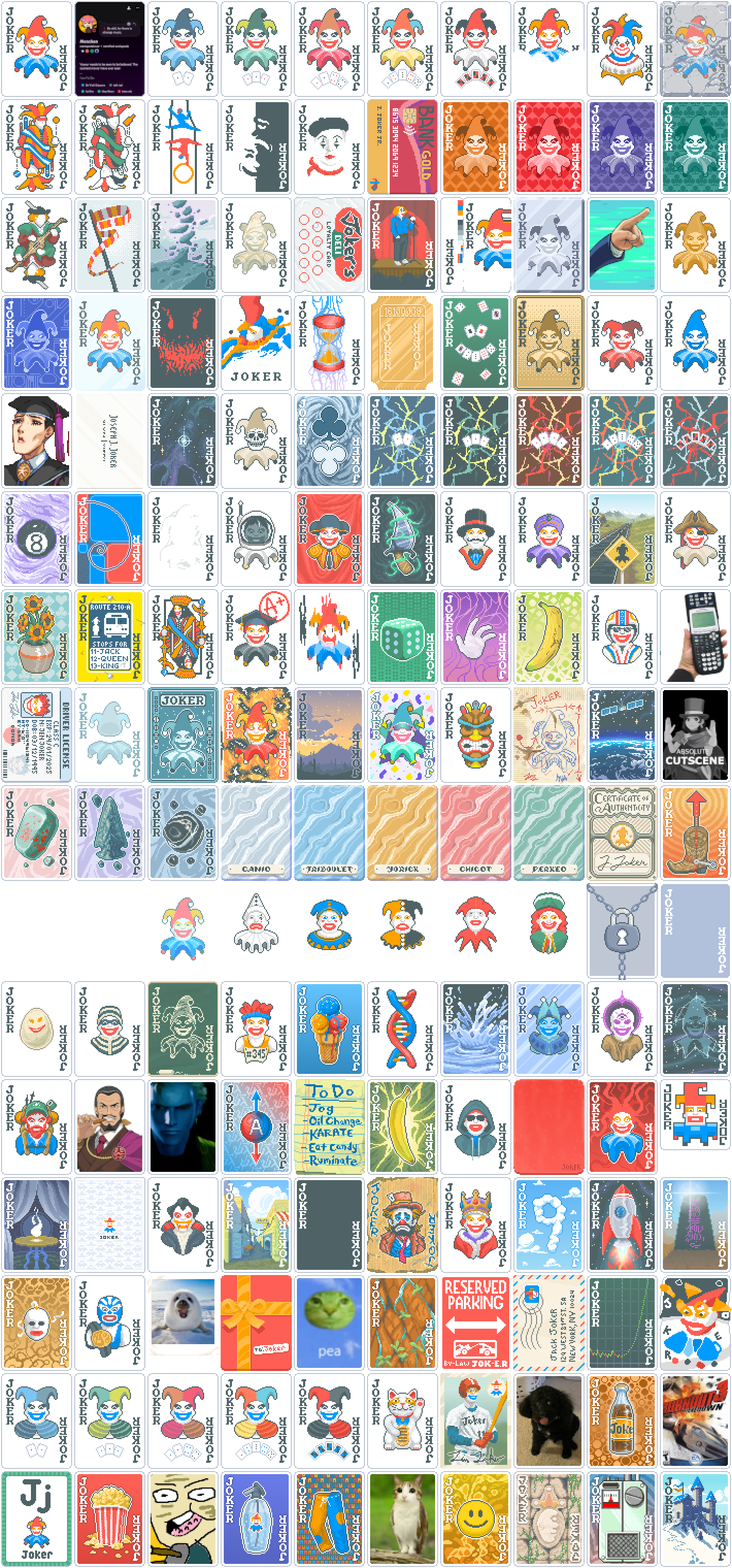
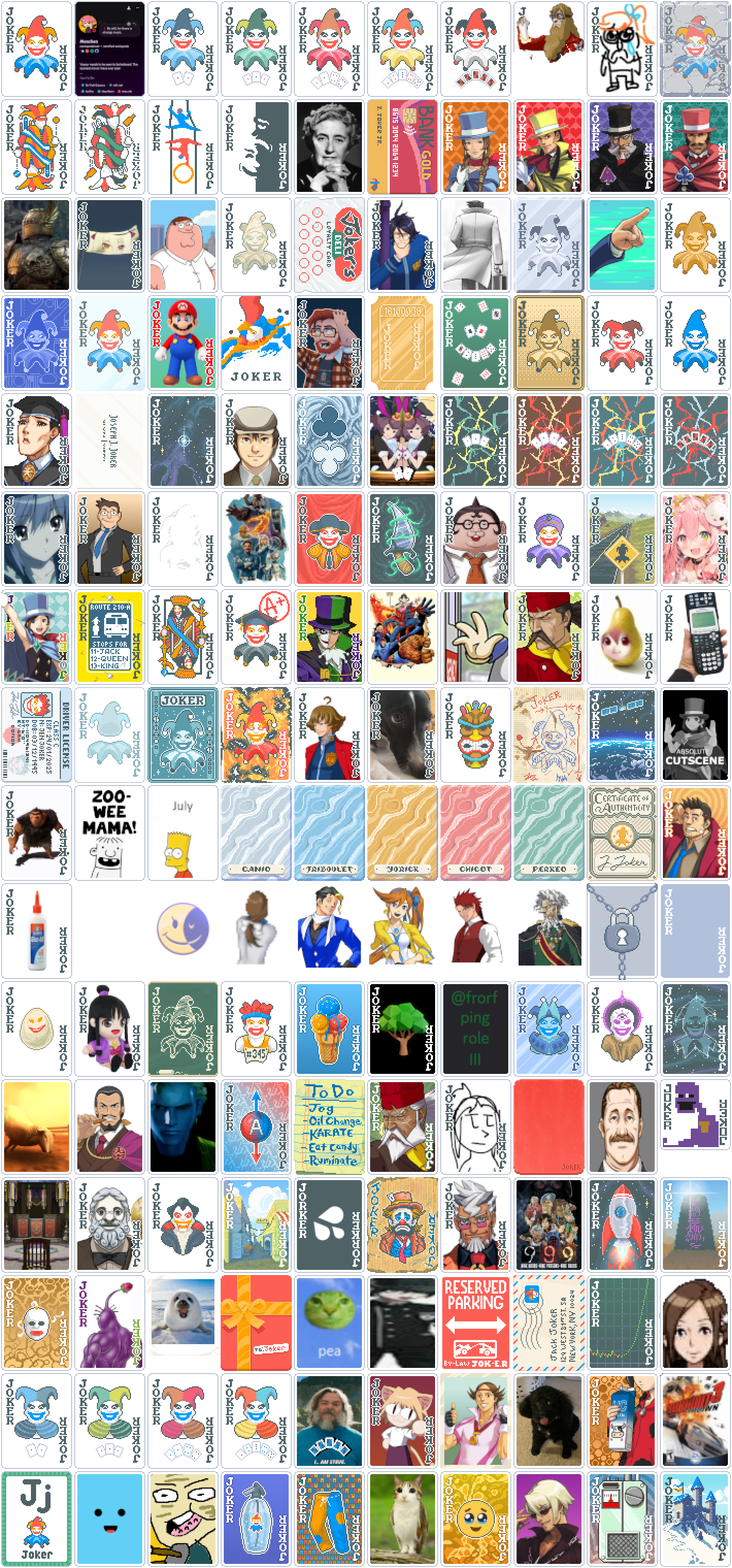
Converted mod to Malverk (thanks betboxer)

diff --git a/README.md b/README.md
@@ -1,17 +1,15 @@
-This WIP mod for Balatro replaces elements of the game with stuff (sometimes only tangentially) related to the Ace Attorney Circlejerk community. Meant to be used alongside with [BlueStorm](https://balatromods.miraheze.org/wiki/BlueStorm).
+This WIP mod for Balatro replaces elements of the game with stuff (sometimes only tangentially) related to the Ace Attorney Circlejerk community.
 
 Download the mod by pressing the green "Code" button, then pressing "Download ZIP".
-
-Thanks to betboxer for converting the mod to Malverk, and everyone in the AACJ Discord server who suggested ideas for cards!
 
 # Changes
 ## Jokers
 
-**Progress: 91/150**
+**Progress: 45/148**
 
 | Original Card | New Card |
 | ------------- | ------------- |
-| Joker | Jimbo (Image Unchanged) |
+| Joker | (Unchanged) |
 | Greedy Joker | Thalassa Gramarye |
 | Lusty Joker | Valant Gramarye |
 | Wrathful Joker | Magnifi Gramarye |
@@ -25,13 +23,13 @@ Thanks to betboxer for converting the mod to Malverk, and everyone in the AACJ D
 | Wily Joker |  |
 | Clever Joker |  |
 | Devious Joker |  |
-| Crafty Joker | Minecraft Steve |
+| Crafty Joker |  |
 | Half Joker | Erasing Evidence |
 | Joker Stencil |  |
-| Four Fingers | Loss |
-| Mime | Agatha Christie |
+| Four Fingers |  |
+| Mime |  |
 | Credit Card |  |
-| Ceremonial Dagger | Hunger Games |
+| Ceremonial Dagger |  |
 | Banner | Celeste McCoy Flag |
 | Mystic Summit | Peter Griffin |
 | Marble Joker |  |
@@ -45,9 +43,9 @@ Thanks to betboxer for converting the mod to Malverk, and everyone in the AACJ D
 | Steel Joker |  |
 | Scary Face | Mario |
 | Abstract Joker |  |
-| Delayed Gratification | Alex Eeggleston |
+| Delayed Gratification |  |
 | Hack | You're a Goner! |
-| Pareidolia | \*Tips Samurai* |
+| Pareidolia |  |
 | Gros Michel | Collin Aries |
 | Even Steven |  |
 | Odd Todd |  |
@@ -60,13 +58,13 @@ Thanks to betboxer for converting the mod to Malverk, and everyone in the AACJ D
 | Burglar | Maya Plush |
 | Blackboard |  |
 | Runner |  |
-| Ice Cream | AotA |
+| Ice Cream |  |
 | DNA | Yggdrasil |
 | Splash | @frorf ping role III |
-| Blue Joker | Plush Goodra |
+| Blue Joker |  |
 | Sixth Sense |  |
 | Constellation |  |
-| Hiker | Crazy Cattle 3D |
+| Hiker |  |
 | Faceless Joker | Inga Karkhuul Khura'in |
 | Green Joker | Green Mode |
 | Superposition |  |
@@ -77,21 +75,21 @@ Thanks to betboxer for converting the mod to Malverk, and everyone in the AACJ D
 | Madness | Deid Mann |
 | Square Joker | Purple Guy |
 | Séance | Divination Séance |
-| Riff-Raff | Aristotle Means |
-| Vampire | Grick |
+| Riff-Raff |  |
+| Vampire |  |
 | Shortcut |  |
 | Hologram | Mood Matrix |
 | Vagabond |  |
-| Baron | Damon Gant |
+| Baron |  |
 | Cloud 9 | 9 Hours, 9 Persons, 9 Doors |
-| Rocket | Turnabout of the Snow |
-| Obelisk | BananaFries |
+| Rocket |  |
+| Obelisk |  |
 | Midas Mask |  |
 | Luchador | Hot Purple Pikmin |
-| Photograph | Video Game About Depression |
+| Photograph | Seal |
 | Gift Card |  |
 | Turtle Bean | Pea |
-| Erosion | Stretched Shuichi |
+| Erosion |  |
 | Reserved Parking |  |
 | Mail-In Rebate |  |
 | To the Moon |  |
@@ -112,7 +110,7 @@ Thanks to betboxer for converting the mod to Malverk, and everyone in the AACJ D
 | Ancient Joker | Protagonist (AAI0) |
 | Ramen | Burgers |
 | Walkie Talkie | Shelly de Killer |
-| Seltzer | Kay Faraday |
+| Seltzer |  |
 | Castle |  |
 | Smiley Face | face_holding_back_tears |
 | Campfire | Meowl |
@@ -122,7 +120,7 @@ Thanks to betboxer for converting the mod to Malverk, and everyone in the AACJ D
 | Sock and Buskin |  |
 | Swashbuckler | Nekotina |
 | Troubadour | Hervis Daubeny |
-| Certificate | Seal |
+| Certificate |  |
 | Smeared Joker | The Great Mr. Reus |
 | Throwback | Meowl's Dog |
 | Hanging Chad | Calc |
@@ -133,9 +131,9 @@ Thanks to betboxer for converting the mod to Malverk, and everyone in the AACJ D
 | Glass Joker |  |
 | Showman | Hifumi Yamada |
 | Flower Pot | The Troupe's Legacy |
-| Blueprint | *Use BlueStorm Mod* |
-| Wee Joker | Glue Joker (Image Unchanged) |
-| Merry Andy | Crythena |
+| Blueprint |  |
+| Wee Joker | (Unchanged) |
+| Merry Andy |  |
 | Oops! All 6s | Fantastic Six |
 | The Idol |  |
 | Seeing Double |  |
@@ -148,14 +146,14 @@ Thanks to betboxer for converting the mod to Malverk, and everyone in the AACJ D
 | The Tribe |  |
 | Stuntman | Kasane Pearto |
 | Invisible Joker |  |
-| Brainstorm | *Use BlueStorm Mod* |
+| Brainstorm |  |
 | Satellite |  |
 | Shoot the Moon |  |
 | Driver's License |  |
 | Cartomancer |  |
 | Astronomer |  |
 | Burnt Joker |  |
-| Bootstraps | Prick Gumshoe |
+| Bootstraps |  |
 | Canio | Duncan Seaman |
 | Triboulet | Richard Wellington |
 | Yorick | Ginger OC |
